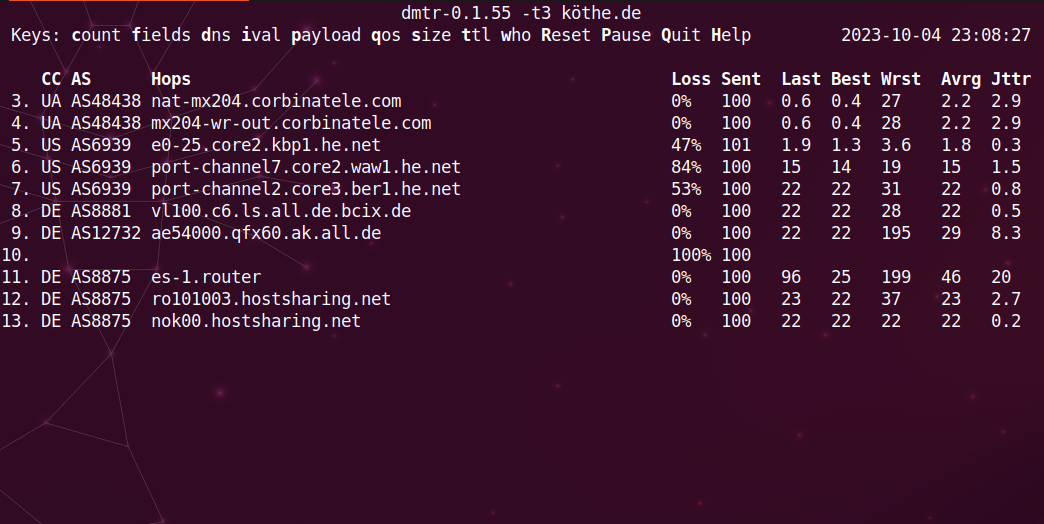
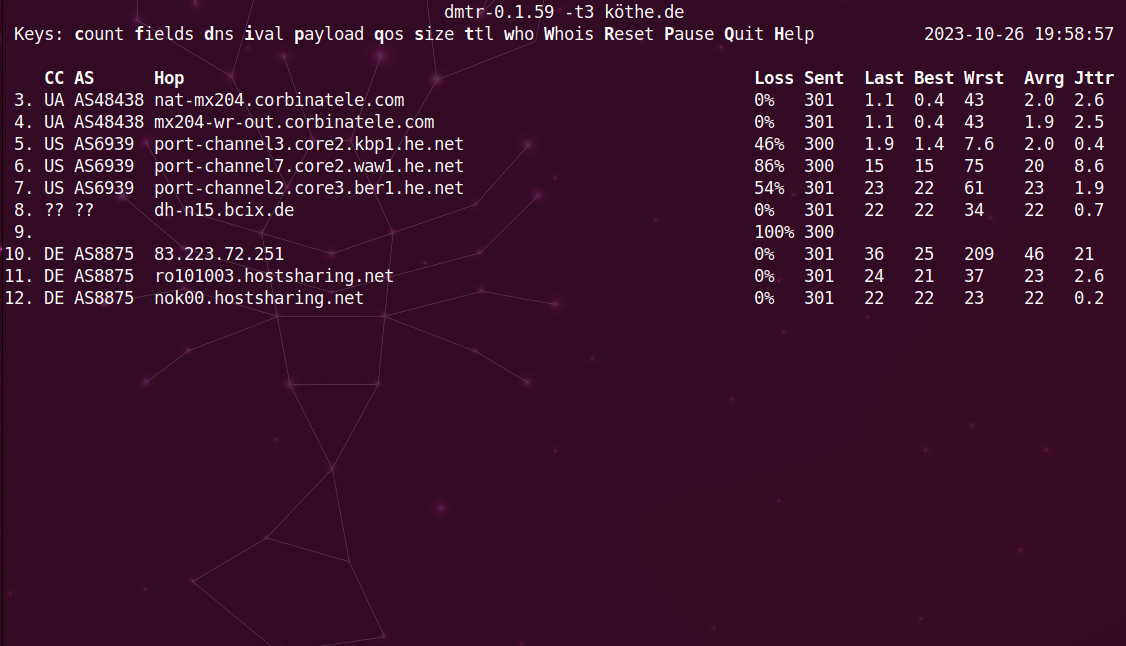
optimize a bit dns/whois resolve calls
update headline and add hints to input fields

update screenshots

diff --git a/bin/pinger.dart b/bin/pinger.dart
@@ -7,8 +7,8 @@ import 'params.dart';
 import 'dcurses.dart';
 import 'sysping.dart' show Ping, Data, Status;
 import 'aux.dart' show fails;
-import 'backresolv.dart' show ARES, resolv, resTimeout;
-import 'riswhois.dart' show ARIS, risWhois, risTimeout;
+import 'backresolv.dart' show resolv, resTimeout;
+import 'riswhois.dart' show risWhois, risTimeout;
 
 late int _hops;
 int get hops => _hops;
@@ -54,13 +54,16 @@ void _insertAddr(int ndx, String addr, String? name) {
     if (stat[ndx].info.length > maxNamesPerHop) stat[ndx].info.removeLast();
     if (addr.length > maxHostaddr) maxHostaddr = addr.length;
     if (maxHostaddr > maxHostname) maxHostname = maxHostaddr;
-    if ((name != null) && (name.length > maxHostname)) maxHostname = name.length;
-  } else if ((stat[ndx].info[at].name == null) && (name != null)) { // if name is not set before
-    stat[ndx].info[at] = (addr: stat[ndx].info[at].addr, name: name, whois: stat[ndx].info[at].whois);
-    if (name.length > maxHostname) maxHostname = name.length;
+    if (name != null) { if (name.length > maxHostname) maxHostname = name.length; }
+    else { _resolvAt(ndx, 0); }
+    _whoisAt(ndx, 0);
+  } else if (stat[ndx].info[at].name == null) { // name is not set before
+    if (name != null) {
+      stat[ndx].info[at] = (addr: stat[ndx].info[at].addr, name: name, whois: stat[ndx].info[at].whois);
+      if (name.length > maxHostname) maxHostname = name.length;
+    } else { _resolvAt(ndx, at); }
+    if (stat[ndx].info[at].whois == null) _whoisAt(ndx, at);
   }
-  if (dnsEnable && (name == null)) _resolvUpdate();
-  if (whoKeys != null) _whoisUpdate();
 }
 
 void _saveAddrName(int ndx, Data data) {
@@ -272,9 +275,8 @@ Future<void> _waitResolvReply(int i, int j) async {
   stat[i].reslock.add(j);
   var addr = stat[i].info[j].addr;
   if (addr != null) {
-    ARES? ares;
     try {
-      ares = await resolv(addr);
+      final ares = await resolv(addr);
       try { // avoid race condition comparing addresses
         if ((ares != null) && (ares.addr == stat[i].info[j].addr)) {
           stat[i].info[j] = (addr: addr, name: ares.name, whois: stat[i].info[j].whois); }
@@ -282,6 +284,10 @@ Future<void> _waitResolvReply(int i, int j) async {
     } catch (e) { logger?.p('resolv: $e'); }
   }
   stat[i].reslock.remove(j);
+}
+
+Future<void> _resolvAt(int i, int j) async {
+  if (dnsEnable && !stat[i].reslock.contains(j)) await _waitResolvReply(i, j);
 }
 
 Future<void> _resolvUpdate() async {
@@ -301,9 +307,8 @@ Future<void> _waitWhoisReply(int i, int j) async {
   stat[i].whoislock.add(j);
   var addr = stat[i].info[j].addr;
   if (addr != null) {
-    ARIS? aris;
     try {
-      aris = await risWhois(addr);
+      final aris = await risWhois(addr);
       try { // avoid race condition comparing addresses
         if ((aris != null) && (aris.addr == stat[i].info[j].addr)) {
           stat[i].info[j] = (addr: addr, name: stat[i].info[j].name, whois: aris.ris); }
@@ -311,6 +316,10 @@ Future<void> _waitWhoisReply(int i, int j) async {
     } catch (e) { logger?.p('whois: $e'); }
   }
   stat[i].whoislock.remove(j);
+}
+
+Future<void> _whoisAt(int i, int j) async {
+  if ((whoKeys != null) && !stat[i].whoislock.contains(j)) await _waitWhoisReply(i, j);
 }
 
 Future<void> _whoisUpdate() async {

diff --git a/bin/dcurses.dart b/bin/dcurses.dart
@@ -53,11 +53,15 @@ void keyHelp() {
 
 typedef _InputFn = (String?, String?) Function(String input);
 
-void _getInput(String what, _InputFn fn) {
+void _getInput(String what, _InputFn fn, {String? key}) {
   final prompt = 'Enter $what: ';
   pause = true;
   clear();
   int y = 2, x = 1;
+  if (key != null) {
+    final hint = keyhints.where((a) => (a.key == key)).toList();
+    if (hint.isNotEmpty) mvaddstr(y + 2, x, 'note, ${hint[0].hint}');
+  }
   mvaddstr(y, x, prompt);
   List<int> input = [];
   echo();
@@ -81,6 +85,7 @@ void _getInput(String what, _InputFn fn) {
     var (e, a) = fn(utf8.decode(input).trim());
     if ((a != null) && paramsChanged) addnote = '$what: $a';
     if (e != null) {
+      move(y + 2, x); clrtoeol();
       mvaddstr(y + 2, x, 'ERROR: $e');
       refresh();
       logger?.p('input error: $e');
@@ -90,14 +95,14 @@ void _getInput(String what, _InputFn fn) {
   pause = false;
 }
 
-void keyCycles() => _getInput('cycles', parseCycles);
-void keyFields() => _getInput('stat fields', parseStatKeys);
-void keyIval() => _getInput('interval', parseIval);
-void keyPayload() => _getInput('payload pattern', parsePayload);
-void keyQoS() => _getInput('QoS/ToS bits', parseQoS);
-void keySize() => _getInput('payload size', parseSize);
-void keyTTL() => _getInput('TTL range', parseTTL);
-void keyWhois() => _getInput('RIS whois keys', parseWhoKeys);
+void keyCycles() => _getInput('cycles', parseCycles, key: 'count');
+void keyFields() => _getInput('stat fields', parseStatKeys, key: 'fields');
+void keyIval() => _getInput('interval', parseIval, key: 'ival');
+void keyPayload() => _getInput('payload pattern', parsePayload, key: 'payload');
+void keyQoS() => _getInput('QoS/ToS bits', parseQoS, key: 'qos');
+void keySize() => _getInput('payload size', parseSize, key: 'size');
+void keyTTL() => _getInput('TTL range', parseTTL, key: 'ttl');
+void keyWhois() => _getInput('RIS whois keys', parseWhoKeys, key: 'Whois');
 
 int printTitle(int y0, int w, {bool over = false, bool up = false}) {
   int y = y0;
@@ -113,7 +118,7 @@ int printTitle(int y0, int w, {bool over = false, bool up = false}) {
     if (qos != qosopt) subs.add('QoS $qos');
     if (psize != pszopt) subs.add('psize $psize');
     if (payload != pldopt) subs.add('payload $payload');
-    if (whoKeys != whoopt) subs.add("whois '$whoKeys'");
+    if (whoKeys != whoopt) { var who = (whoKeys != null) ? "'$whoKeys'" : 'off'; subs.add("whois $who"); }
     if (subs.isNotEmpty) { var s = subs.where((p) => (p != null) && p.isNotEmpty).join(', '); parts.add('($s)'); }
     if (addnote != null) parts.add(addnote);
     if (!gotdata && running) parts.add(': ${msgs.nodata} yet');

diff --git a/bin/aux.dart b/bin/aux.dart
@@ -54,18 +54,19 @@ class Fails {
 typedef KeyHint = ({String key, int b, String hint}); // 'b' is index of bold character
 final List<KeyHint> keyhints = [
   (key: 'count',   b: 0, hint: 'number of cycles to ping'),
-  (key: 'fields',  b: 0, hint: 'stat fields to display, chars stand for: $statKeysDesc'),
-  (key: 'dns',     b: 0, hint: 'toggle hostname/ipaddr show'),
+  (key: 'fields',  b: 0, hint: "statistic keys [$statKeysDef] stand for '$statKeysDesc'"),
+  (key: 'dns',     b: 0, hint: 'toggle what to display in Hop field, hostname or IP address'),
   (key: 'ival',    b: 0, hint: 'interval between pings in seconds'),
-  (key: 'payload', b: 0, hint: 'payload pattern'),
-  (key: 'qos',     b: 0, hint: 'set QoS bits'),
-  (key: 'size',    b: 0, hint: 'payload size'),
+  (key: 'payload', b: 0, hint: 'payload pattern, upto 16bytes, regexp [0-9a-fA-F]{1,32}'),
+  (key: 'qos',     b: 0, hint: 'set QoS bits (0..2), or ToS byte (0..255)'),
+  (key: 'size',    b: 0, hint: 'payload size in range ${psize_.min}..${psize_.max}'),
   (key: 'ttl',     b: 0, hint: 'set TTL range in min,max format'),
-  (key: 'who',     b: 0, hint: "toggle whois info diaplying (note: press 'W' to set whois-fields in [$whoPatt]+ format)"),
-  (key: 'Reset',   b: 0, hint: 'reset stats'),
-  (key: 'Pause',   b: 0, hint: 'pause/resume'),
+  (key: 'who',     b: 0, hint: 'toggle displaying of whois information'),
+  (key: 'Whois',   b: 0, hint: "keys [$whoPatt] with default '$whoKeysDef' stand for '$whoKeysDesc'"),
+  (key: 'Reset',   b: 0, hint: 'reset statistics'),
+  (key: 'Pause',   b: 0, hint: "pause/resume, <space> button is aliased to 'P'"),
   (key: 'Quit',    b: 0, hint: "stop and exit, 'x' is aliased to 'Q'"),
-  (key: 'Help',    b: 0, hint: 'this help'),
+  (key: 'Help',    b: 0, hint: "this help, 'h' is aliased to 'H'"),
 ];
 final int hkMaxLen = keyhints.reduce((a, b) => ((a.key.length > b.key.length) ? a : b)).key.length;
 final int hkTotal = keyhints.reduce((a, b) => (key: '${a.key} ${b.key}', b:0, hint:'')).key.length;

diff --git a/bin/riswhois.dart b/bin/riswhois.dart
@@ -23,7 +23,7 @@ Future<ARIS?> risWhois(String addr, { int? port, int? tout}) async {
   final socket = await Socket.connect("riswhois.ripe.net", port ?? 43, timeout: Duration(seconds: tout ?? risTimeout));
   List<String> together = [];
   socket.listen((Uint8List data) { together += splitter.convert(String.fromCharCodes(data)); },
-    onError: (e) { socket.destroy(); completer.complete(null); logger?.p('whois sock: $e'); },
+    onError: (e) { socket.destroy(); completer.complete(null); logger?.p('[ERROR] whois sock: $e'); },
     onDone: () {
       socket.destroy();
       together.removeWhere((l) => (l.isEmpty || (l[0] == skip) || !l.contains(sc)));

diff --git a/bin/params.dart b/bin/params.dart
@@ -3,7 +3,7 @@ import 'dart:io' show Platform;
 import 'syslogger.dart' show Syslogger;
 
 get myname { var exec = Platform.executable.split('/').last; return (exec == 'dart') ? 'dmtr' : exec; }
-final version = '0.1.59';
+final version = '0.1.60';
 String? optstr;
 String? addnote;
 bool pause = false;

diff --git a/CHANGELOG.md b/CHANGELOG.md
@@ -1,3 +1,8 @@
+## 0.1.60
+- optimize a bit dns/whois resolve calls
+- update headline and add hints to input fields
+- update screenshots
+
 ## 0.1.59
 - add its own ip-address back resolver (so that it allows runtime dns toggling for numeric pings too)
 - extra ip-address check for whois setter
